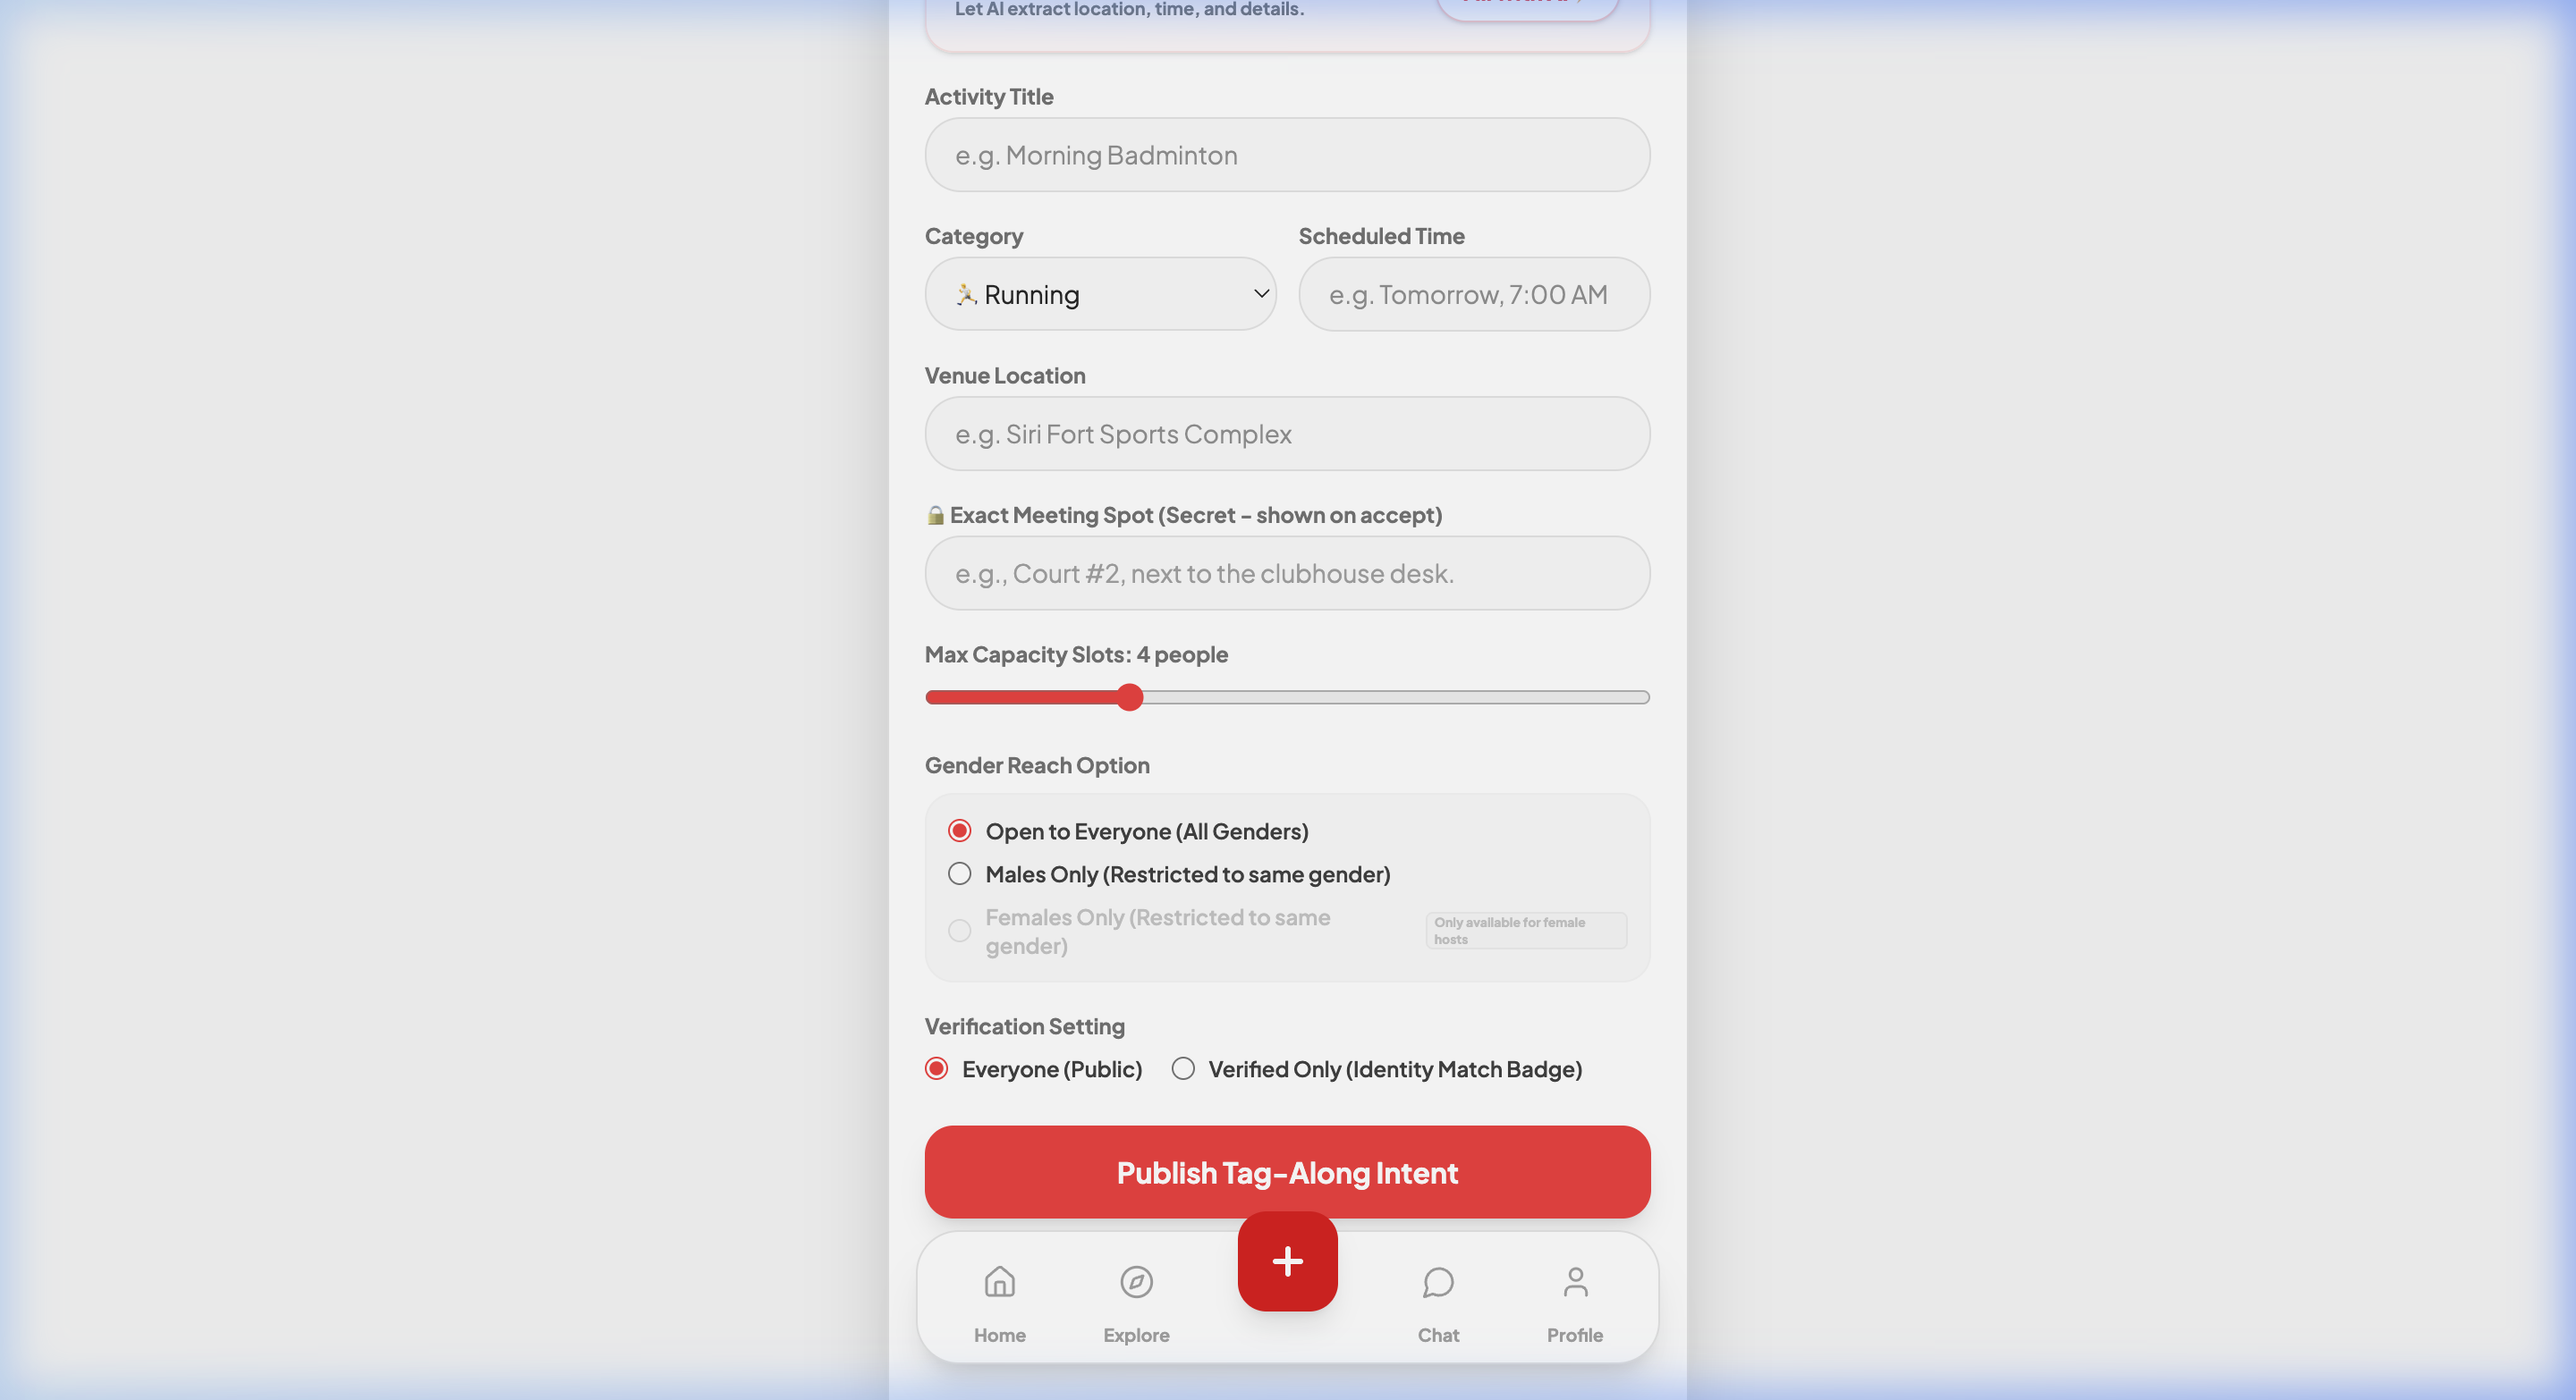
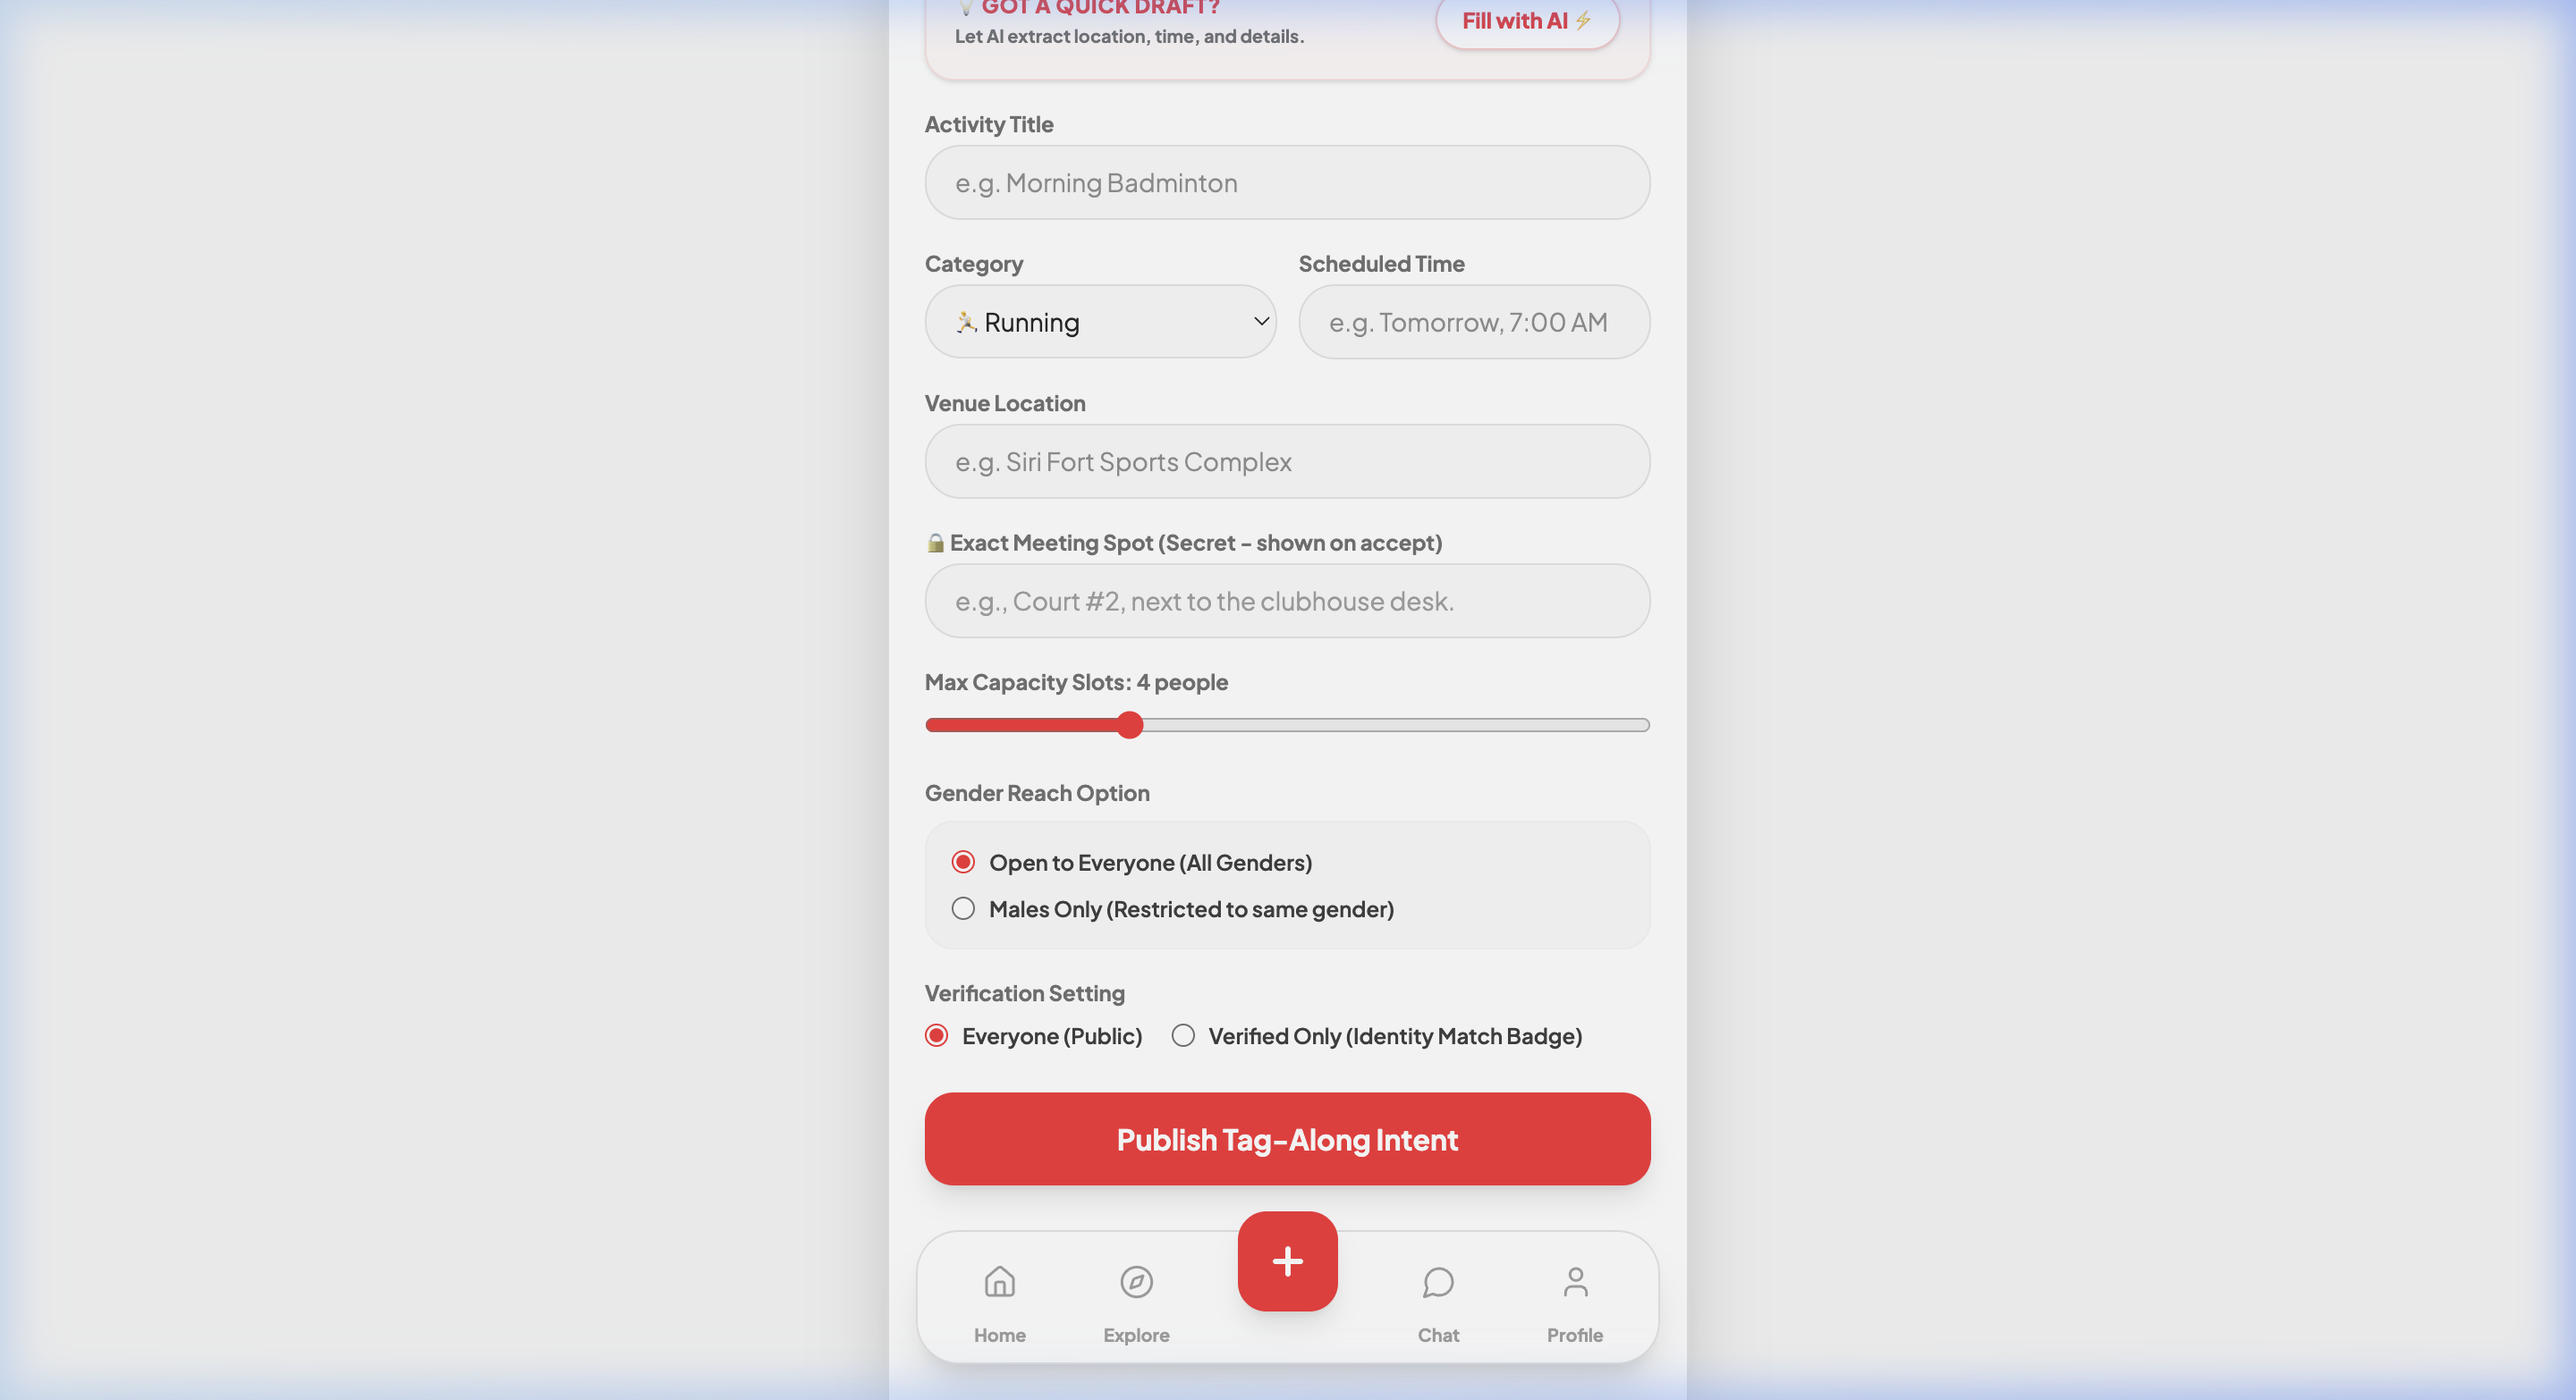
Clean up Gender Reach form options and restore OpenAI as default AI baseline with a comparative study table

diff --git a/prototype/src/app/App.tsx b/prototype/src/app/App.tsx
@@ -1327,8 +1327,8 @@ export default function App() {
 
                 <div>
                   <label className="block text-xs font-bold text-neutral-500 mb-2">Gender Reach Option</label>
-                  <div className="flex flex-col gap-2 mb-4 bg-neutral-50 p-3 rounded-2xl border border-neutral-100">
-                    <label className="flex items-center gap-2 text-xs font-semibold text-neutral-700">
+                  <div className="flex flex-col gap-2.5 mb-4 bg-neutral-50 p-3.5 rounded-2xl border border-neutral-100">
+                    <label className="flex items-center gap-2 text-xs font-semibold text-neutral-700 cursor-pointer">
                       <input
                         type="radio"
                         name="genderReach"
@@ -1339,7 +1339,7 @@ export default function App() {
                       />
                       Open to Everyone (All Genders)
                     </label>
-                    <label className="flex items-center gap-2 text-xs font-semibold text-neutral-700">
+                    <label className="flex items-center gap-2 text-xs font-semibold text-neutral-700 cursor-pointer">
                       <input
                         type="radio"
                         name="genderReach"
@@ -1349,18 +1349,6 @@ export default function App() {
                         className="accent-red-500"
                       />
                       Males Only (Restricted to same gender)
-                    </label>
-                    <label className="flex items-center gap-2 text-xs font-semibold text-neutral-400 cursor-not-allowed opacity-60">
-                      <input
-                        type="radio"
-                        name="genderReach"
-                        disabled
-                        className="accent-neutral-300"
-                      />
-                      <span>Females Only (Restricted to same gender)</span>
-                      <span className="text-[7px] bg-neutral-100 text-neutral-400 border border-neutral-200 px-1 py-0.2 rounded font-black">
-                        Only available for female hosts
-                      </span>
                     </label>
                   </div>
                 </div>

diff --git a/docs/02_Tech_Stack_Research.md b/docs/02_Tech_Stack_Research.md
@@ -29,19 +29,17 @@ This document provides a detailed comparative analysis of different mobile-first
 
 ---
 
-## 3. Google Gemini AI Pipeline & Matchmaking Architecture
-
-We leverage DeepMind's Gemini API for NLP parsing and semantic vector embeddings, ensuring enterprise-grade speed and latency:
+## 3. AI Pipeline & Semantic Matchmaking Architecture
 
 ```mermaid
 graph TD
     UserText[User Description Text] --> EdgeFunc[Supabase Edge Function]
-    EdgeFunc --> |Parse Request| GeminiNLP[Gemini 1.5 Flash]
-    GeminiNLP --> |Structured JSON Details| ConfirmForm[User Confirmation Form]
+    EdgeFunc --> |Parse Request| OpenAINLP[OpenAI gpt-4o-mini]
+    OpenAINLP --> |Structured JSON Details| ConfirmForm[User Confirmation Form]
     
     ConfirmForm --> |Publish Plan| SaveDB[Postgres Database]
-    SaveDB --> |Trigger Embedding| GeminiEmbed[Google text-embedding-004]
-    GeminiEmbed --> |768d Vector| VectorCol[pgvector: plans.embedding_vector]
+    SaveDB --> |Trigger Embedding| OpenAIEmbed[OpenAI text-embedding-3-small]
+    OpenAIEmbed --> |1536d Vector| VectorCol[pgvector: plans.embedding_vector]
     
     UserPref[User Profile Preferences] --> |Embed Profile| ProfileVector[pgvector: profiles.preferences_vector]
     
@@ -49,33 +47,35 @@ graph TD
     MatchEngine --> MatchResults[Suggested Plans on Feed]
 ```
 
-### A. NLP Parsing Integration (Gemini 1.5 Flash)
-* **Model**: `gemini-1.5-flash`
-* **Why it's production-ready**: It offers sub-300ms latency, supports structured outputs via JSON Schema tool calling, and is significantly more cost-efficient than GPT-4o-mini.
+### A. NLP Parsing Integration
+* **Model**: `gpt-4o-mini`
 * **Workflow**:
   1. The user inputs their plan draft.
   2. The frontend sends it to `/api/v1/plans/parse-nlp`.
-  3. The endpoint instructs Gemini with a system prompt and a JSON structured schema:
+  3. The endpoint instructs the LLM with a system prompt and a schema tool definition:
      ```json
      {
-       "type": "OBJECT",
-       "properties": {
-         "title": { "type": "STRING" },
-         "category": { "type": "STRING", "enum": ["sports", "running", "shopping", "yoga", "cycling", "hiking", "other"] },
-         "datetime": { "type": "STRING" },
-         "venue_name": { "type": "STRING" }
-       },
-       "required": ["title", "category", "datetime", "venue_name"]
+       "name": "extract_plan",
+       "parameters": {
+         "type": "object",
+         "properties": {
+           "title": { "type": "string" },
+           "category": { "type": "string", "enum": ["sports", "running", "shopping", "yoga", "cycling", "hiking", "other"] },
+           "datetime": { "type": "string" },
+           "venue_name": { "type": "string" }
+         },
+         "required": ["title", "category", "datetime", "venue_name"]
+       }
      }
      ```
-  4. The returned structured JSON parameters populate the details form state immediately.
+  4. The returned structured properties populate the React Native details state immediately.
 
-### B. pgvector Matchmaking Engine (text-embedding-004)
-Along represents user profiles and plans as 768-dimensional vectors to calculate match suggestions:
-* **Model**: Google `text-embedding-004` (768-dimensional vectors).
-* **Database Storage**: The vectors are stored in PostgreSQL using the `pgvector` extension:
+### B. pgvector Matchmaking Engine
+Along represents user profiles and plans as vectors to suggest plans matching user interests:
+* **Model**: OpenAI `text-embedding-3-small` (1536-dimensional vectors).
+* **Database Storage**:
   ```sql
-  ALTER TABLE plans ADD COLUMN embedding_vector vector(768);
+  ALTER TABLE plans ADD COLUMN embedding_vector vector(1536);
   ```
 * **Similarity Query**: Similarity ranking uses the cosine distance operator `<=>` (where `0` is identical, `1` is orthogonal):
   ```sql
@@ -85,6 +85,21 @@ Along represents user profiles and plans as 768-dimensional vectors to calculate
   ORDER BY distance ASC
   LIMIT 5;
   ```
+
+---
+
+### C. AI Provider Comparison: OpenAI vs. Google Gemini
+
+| Metric / Feature | OpenAI (Vetted Baseline) | Google Gemini (Alternative Option) | Decision Recommendation |
+| :--- | :--- | :--- | :--- |
+| **Primary NLP Model** | `gpt-4o-mini` | `gemini-1.5-flash` | Both are high-speed, cost-efficient models. |
+| **NLP Pricing (Input/Output)** | $0.150 / $0.600 per 1M tokens | $0.075 / $0.300 per 1M tokens | **Gemini 1.5 Flash** is 50% cheaper, optimizing startup budgets. |
+| **Average Latency** | ~350 - 450ms | ~250 - 350ms | **Gemini 1.5 Flash** is slightly faster for quick-parsing updates. |
+| **Context Window** | 128,000 tokens | 1,000,000 tokens | **Gemini** handles massive history logs if doing bulk user recommendation summary. |
+| **Structured Output Support** | JSON Schema Tool calling (100% rigid match) | Structured JSON output modes & Tool schemas | Parity. Both enforce strict JSON parsing formats. |
+| **Embedding Model** | `text-embedding-3-small` | `text-embedding-004` | **OpenAI** outputs 1536d, **Google** outputs 768d. |
+| **Embedding Cost** | $0.020 per 1M tokens | $0.025 per 1M tokens | Parity. Negligible cost difference. |
+| **Vector DB Dimension** | **1536 Dimensions**: Higher precision for complex queries. | **768 Dimensions**: Lower database footprint and faster index checks in Postgres. | **768 Dimensions (Google)** is faster to execute under Supabase Postgres pgvector indexes. |
 
 ---
 

diff --git a/task.md b/task.md
@@ -1,11 +1,11 @@
 # Tasks - Gender Reach, Sticky Hotspots & Map Overlays
 
-- [ ] Implement Gender visibility controls in Create form in `App.tsx`
-- [ ] Add gender-restricted badge labels on Home activities feed cards
-- [ ] Relocate Sponsored Hotspots list to be sticky at the top of the Explore view
-- [ ] Implement toggle layers (Plans vs Venues) and popup markers inside Nearby Map
-- [ ] Update user flow specifications (`docs/00_User_Flows_And_Features.md`)
-- [ ] Update UI/UX design specifications (`docs/01_UI_UX_Design.md`)
-- [ ] Update tech stack research specifications (`docs/02_Tech_Stack_Research.md`)
-- [ ] Capture running prototype screenshots of the updated screens
-- [ ] Synchronize root `README.md` and push updates to GitHub
+- [x] Implement Gender visibility controls in Create form in `App.tsx`
+- [x] Add gender-restricted badge labels on Home activities feed cards
+- [x] Relocate Sponsored Hotspots list to be sticky at the top of the Explore view
+- [x] Implement toggle layers (Plans vs Venues) and popup markers inside Nearby Map
+- [x] Update user flow specifications (`docs/00_User_Flows_And_Features.md`)
+- [x] Update UI/UX design specifications (`docs/01_UI_UX_Design.md`)
+- [x] Update tech stack research specifications (`docs/02_Tech_Stack_Research.md`)
+- [x] Capture running prototype screenshots of the updated screens
+- [x] Synchronize root `README.md` and push updates to GitHub
